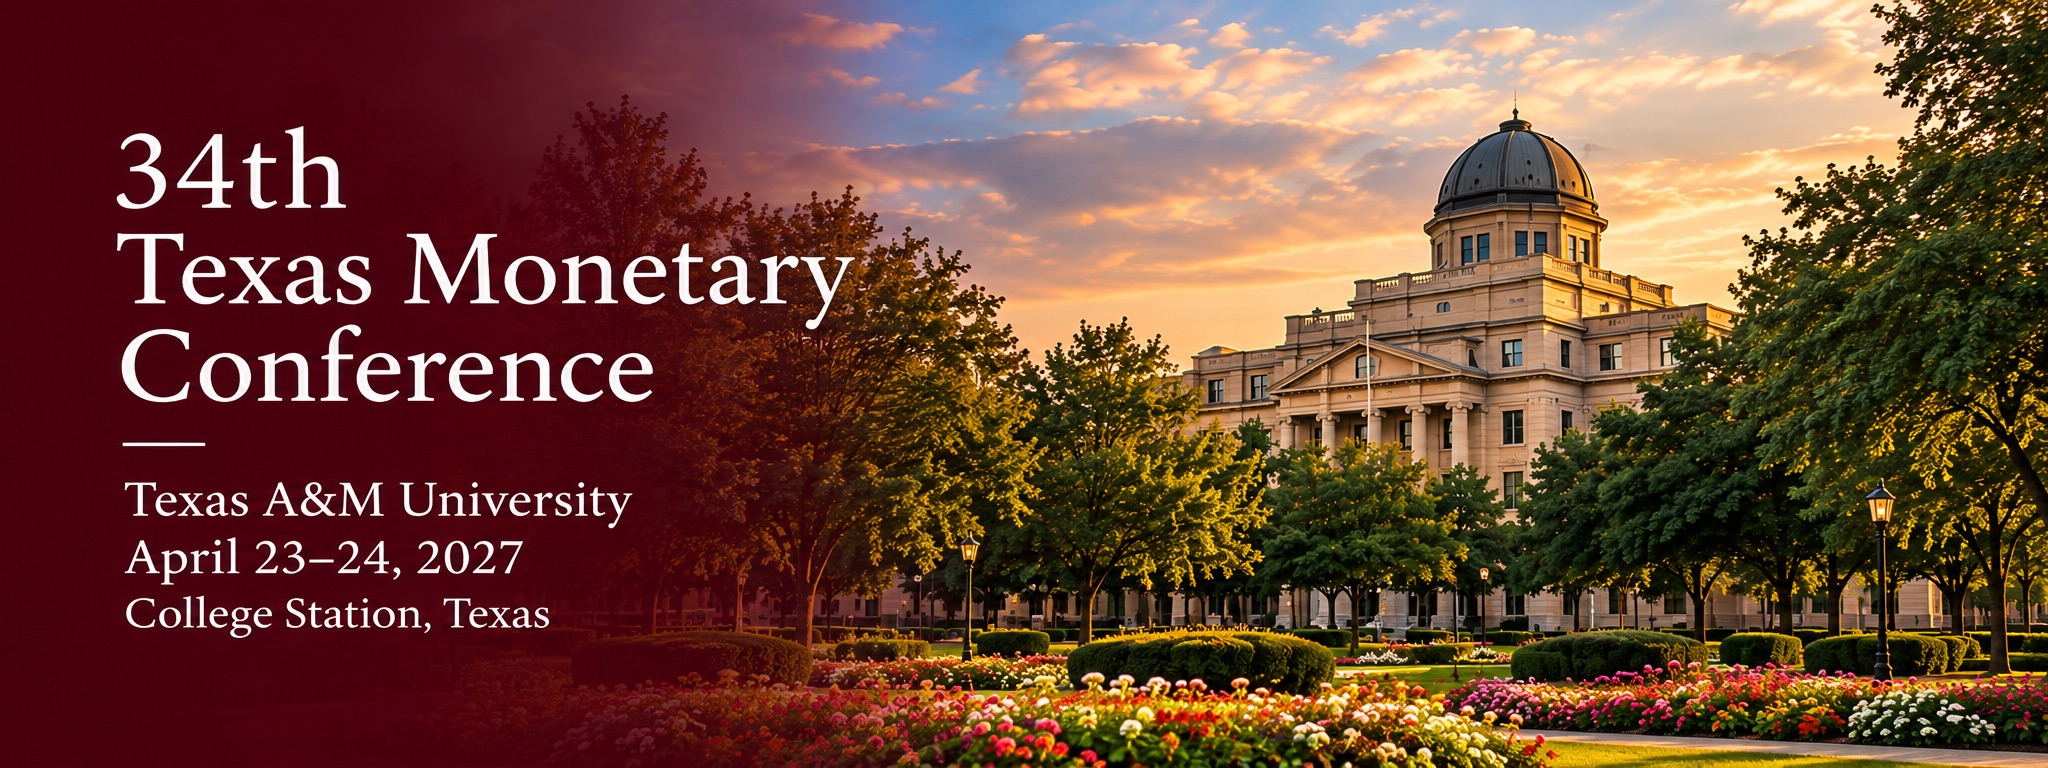
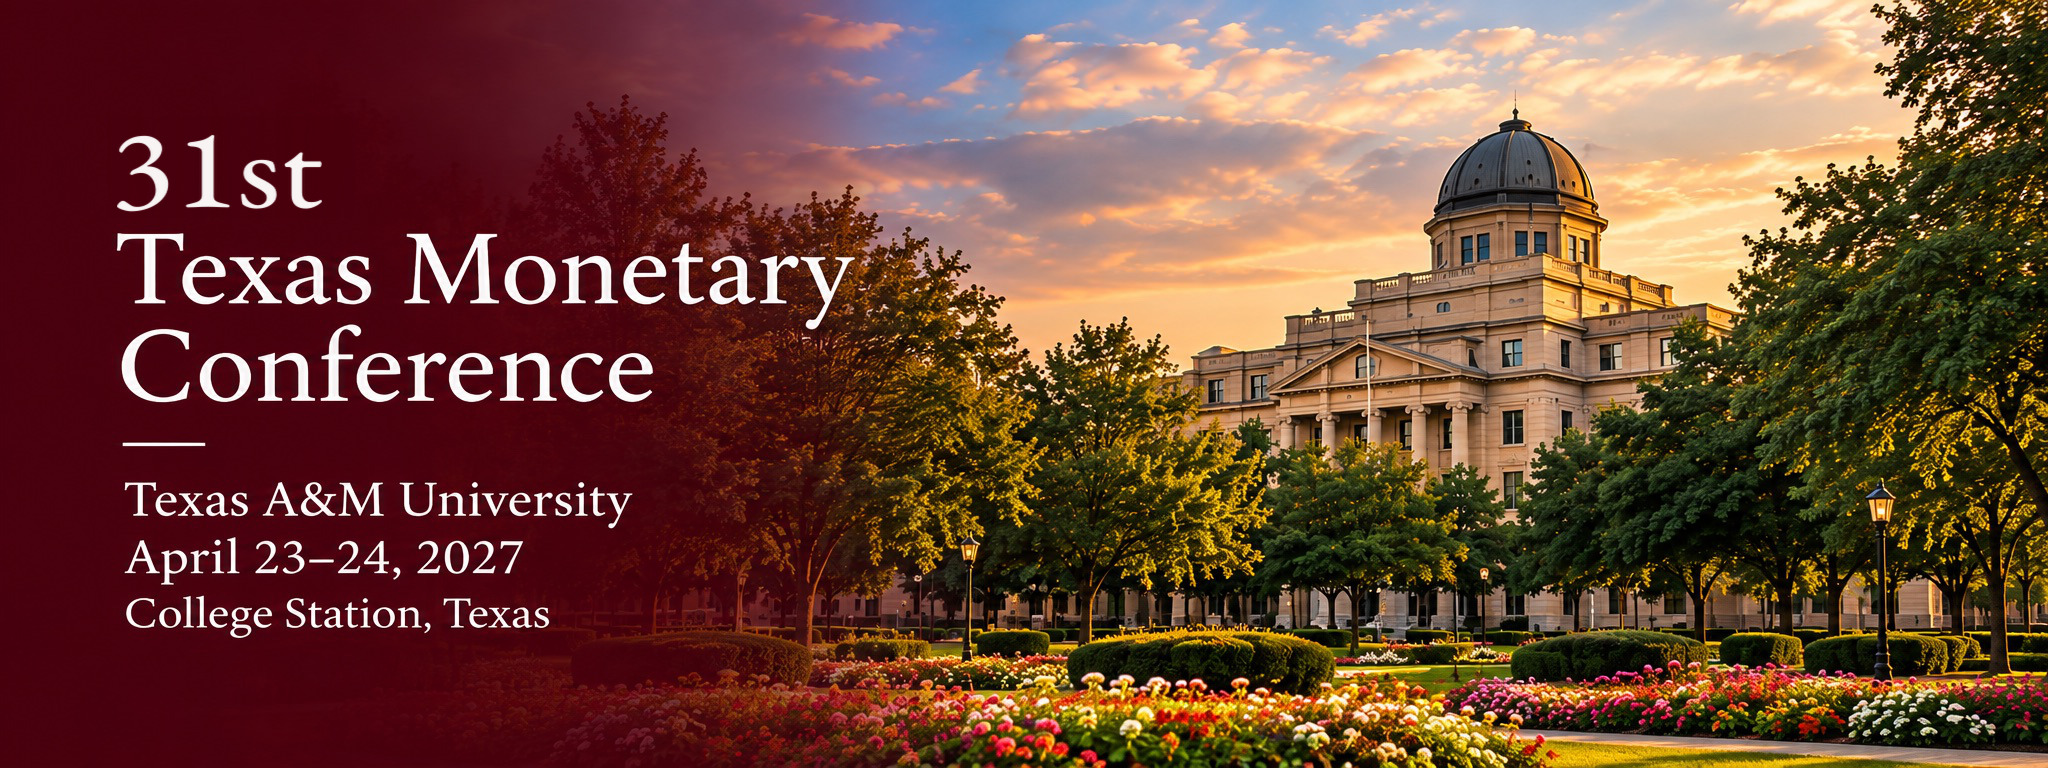
Number past conferences and change 2027 to the 31st TMC
Add a No. column to the Past Conferences table (2019 = 25th; no
conference in 2016 or 2020-2021), add the December 2009 UT Austin
conference, and update the banner and index.html from 34th to 31st.

Changed region(s): [[0.0625, 0.1562, 0.1875, 0.2812]]

diff --git a/programs.html b/programs.html
@@ -34,36 +34,37 @@
       <div class="table-wrap">
         <table>
           <thead>
-            <tr><th>Year</th><th>Dates</th><th>Host</th><th>Program</th></tr>
+            <tr><th>Year</th><th>No.</th><th>Dates</th><th>Host</th><th>Program</th></tr>
           </thead>
           <tbody>
             <!-- Add new years at the top. Put the PDF in programs/ as YYYY_Host.pdf -->
-            <tr><td class="year">2026</td><td>May 1–2</td><td>Rice University</td><td><a class="pdf-link" href="programs/2026_Rice.pdf">PDF</a></td></tr>
-            <tr><td class="year">2025</td><td>April 24–25</td><td>University of Texas at Austin</td><td><a class="pdf-link" href="programs/2025_UTAustin.pdf">PDF</a></td></tr>
-            <tr><td class="year">2024</td><td>April 5–6</td><td>Southern Methodist University</td><td><a class="pdf-link" href="programs/2024_SMU.pdf">PDF</a></td></tr>
-            <tr><td class="year">2023</td><td>April 14–15</td><td>University of Houston</td><td><a class="pdf-link" href="programs/2023_Houston.pdf">PDF</a></td></tr>
-            <tr><td class="year">2022</td><td>March 25</td><td>Federal Reserve Bank of Dallas</td><td><a class="pdf-link" href="programs/2022_DallasFed.pdf">PDF</a></td></tr>
-            <tr><td class="year">2019</td><td>May 3–4</td><td>Texas A&amp;M University</td><td><a class="pdf-link" href="programs/2019_TexasAM.pdf">PDF</a></td></tr>
-            <tr><td class="year">2018</td><td>May 4–5</td><td>University of Texas at Austin</td><td><a class="pdf-link" href="programs/2018_UTAustin.pdf">PDF</a></td></tr>
-            <tr><td class="year">2017</td><td>April 29–30</td><td>Southern Methodist University</td><td><a class="pdf-link" href="programs/2017_SMU.pdf">PDF</a></td></tr>
-            <tr><td class="year">2015</td><td>October 16–17</td><td>University of Houston</td><td><a class="pdf-link" href="programs/2015_Houston.pdf">PDF</a></td></tr>
-            <tr><td class="year">2014</td><td>October 4–5</td><td>Federal Reserve Bank of Dallas</td><td><a class="pdf-link" href="programs/2014_DallasFed.pdf">PDF</a> · <a class="pdf-link" href="https://www.dallasfed.org/research/events/2014/14tmc" target="_blank" rel="noopener">Web page ↗</a></td></tr>
-            <tr><td class="year">2013</td><td>April 6–7</td><td>Texas A&amp;M University</td><td><a class="pdf-link" href="programs/2013_TexasAM.pdf">PDF</a> · <a class="pdf-link" href="https://web.archive.org/web/20141211102622/http://econweb.tamu.edu/about-us/texas_monetary_conference_2013.htm" target="_blank" rel="noopener">Web page ↗</a></td></tr>
-            <tr><td class="year">2008</td><td>May 3–4</td><td>Federal Reserve Bank of Dallas</td><td><a class="pdf-link" href="programs/2008_DallasFed.html">Program</a></td></tr>
-            <tr><td class="year">2006</td><td>April 29–30</td><td>Texas A&amp;M University</td><td><a class="pdf-link" href="programs/2006_TexasAM.pdf">PDF</a></td></tr>
-            <tr><td class="year">2005</td><td>April 1–2</td><td>University of Texas at Austin</td><td><a class="pdf-link" href="programs/2005_UTAustin.pdf">PDF</a> · <a class="pdf-link" href="https://web.archive.org/web/20061130112734/http://www.utexas.edu/cola/depts/economics/conferences/Spring_2005/tx_monetary/index/" target="_blank" rel="noopener">Web page ↗</a></td></tr>
-            <tr><td class="year">2004</td><td>April 24–25</td><td>Southern Methodist University</td><td><a class="pdf-link" href="programs/2004_SMU.pdf">PDF</a> · <a class="pdf-link" href="https://web.archive.org/web/20041027183503/http://www.smu.edu/economics/events/conference/monetary/schedule.htm" target="_blank" rel="noopener">Web page ↗</a></td></tr>
-            <tr><td class="year">2003</td><td>March 28–29</td><td>University of Houston</td><td><a class="pdf-link" href="https://www.uh.edu/~dpapell/tmcsched.htm" target="_blank" rel="noopener">Web page ↗</a></td></tr>
-            <tr><td class="year">2002</td><td>March 1–2</td><td>University of Texas at Austin</td><td class="na">Not available</td></tr>
-            <tr><td class="year">2001</td><td>March 31–April 1</td><td>Rice University</td><td><a class="pdf-link" href="programs/2001_Rice.pdf">PDF</a> · <a class="pdf-link" href="https://web.archive.org/web/20030118071507/http://www.ruf.rice.edu/~econ/tmc/index.html" target="_blank" rel="noopener">Web page ↗</a></td></tr>
-            <tr><td class="year">2000</td><td>April 21–22</td><td>Texas A&amp;M University</td><td><a class="pdf-link" href="programs/2000_TexasAM.pdf">PDF</a> · <a class="pdf-link" href="https://web.archive.org/web/20030307200810/http://econweb.tamu.edu/auernheimer/TMC2000/this%20year.htm" target="_blank" rel="noopener">Web page ↗</a></td></tr>
-            <tr><td class="year">1999</td><td>—</td><td>Federal Reserve Bank of Dallas</td><td class="na">Not available</td></tr>
-            <tr><td class="year">1998</td><td>—</td><td>University of Texas at Austin</td><td class="na">Not available</td></tr>
-            <tr><td class="year">1997</td><td>Spring</td><td>Southern Methodist University</td><td class="na">Not available</td></tr>
-            <tr><td class="year">1996</td><td>Spring</td><td>Rice University</td><td class="na">Not available</td></tr>
-            <tr><td class="year">1995</td><td>Spring</td><td>Texas A&amp;M University</td><td class="na">Not available</td></tr>
-            <tr><td class="year">1994</td><td>—</td><td>Federal Reserve Bank of Dallas</td><td class="na">Not available</td></tr>
-            <tr><td class="year">1993</td><td>—</td><td>University of Texas at Austin</td><td class="na">Not available</td></tr>
+            <tr><td class="year">2026</td><td class="num">30th</td><td>May 1–2</td><td>Rice University</td><td><a class="pdf-link" href="programs/2026_Rice.pdf">PDF</a></td></tr>
+            <tr><td class="year">2025</td><td class="num">29th</td><td>April 24–25</td><td>University of Texas at Austin</td><td><a class="pdf-link" href="programs/2025_UTAustin.pdf">PDF</a></td></tr>
+            <tr><td class="year">2024</td><td class="num">28th</td><td>April 5–6</td><td>Southern Methodist University</td><td><a class="pdf-link" href="programs/2024_SMU.pdf">PDF</a></td></tr>
+            <tr><td class="year">2023</td><td class="num">27th</td><td>April 14–15</td><td>University of Houston</td><td><a class="pdf-link" href="programs/2023_Houston.pdf">PDF</a></td></tr>
+            <tr><td class="year">2022</td><td class="num">26th</td><td>March 25</td><td>Federal Reserve Bank of Dallas</td><td><a class="pdf-link" href="programs/2022_DallasFed.pdf">PDF</a></td></tr>
+            <tr><td class="year">2019</td><td class="num">25th</td><td>May 3–4</td><td>Texas A&amp;M University</td><td><a class="pdf-link" href="programs/2019_TexasAM.pdf">PDF</a></td></tr>
+            <tr><td class="year">2018</td><td class="num">24th</td><td>May 4–5</td><td>University of Texas at Austin</td><td><a class="pdf-link" href="programs/2018_UTAustin.pdf">PDF</a></td></tr>
+            <tr><td class="year">2017</td><td class="num">23rd</td><td>April 29–30</td><td>Southern Methodist University</td><td><a class="pdf-link" href="programs/2017_SMU.pdf">PDF</a></td></tr>
+            <tr><td class="year">2015</td><td class="num">22nd</td><td>October 16–17</td><td>University of Houston</td><td><a class="pdf-link" href="programs/2015_Houston.pdf">PDF</a></td></tr>
+            <tr><td class="year">2014</td><td class="num">21st</td><td>October 4–5</td><td>Federal Reserve Bank of Dallas</td><td><a class="pdf-link" href="programs/2014_DallasFed.pdf">PDF</a> · <a class="pdf-link" href="https://www.dallasfed.org/research/events/2014/14tmc" target="_blank" rel="noopener">Web page ↗</a></td></tr>
+            <tr><td class="year">2013</td><td class="num">20th</td><td>April 6–7</td><td>Texas A&amp;M University</td><td><a class="pdf-link" href="programs/2013_TexasAM.pdf">PDF</a> · <a class="pdf-link" href="https://web.archive.org/web/20141211102622/http://econweb.tamu.edu/about-us/texas_monetary_conference_2013.htm" target="_blank" rel="noopener">Web page ↗</a></td></tr>
+            <tr><td class="year">2009</td><td class="num">—</td><td>December 11–12</td><td>University of Texas at Austin</td><td><a class="pdf-link" href="https://web.archive.org/web/20190906013437/https://liberalarts.utexas.edu/economics/events/texas-monetary-conference-2009" target="_blank" rel="noopener">Web page ↗</a></td></tr>
+            <tr><td class="year">2008</td><td class="num">16th</td><td>May 3–4</td><td>Federal Reserve Bank of Dallas</td><td><a class="pdf-link" href="programs/2008_DallasFed.html">Program</a></td></tr>
+            <tr><td class="year">2006</td><td class="num">14th</td><td>April 29–30</td><td>Texas A&amp;M University</td><td><a class="pdf-link" href="programs/2006_TexasAM.pdf">PDF</a></td></tr>
+            <tr><td class="year">2005</td><td class="num">13th</td><td>April 1–2</td><td>University of Texas at Austin</td><td><a class="pdf-link" href="programs/2005_UTAustin.pdf">PDF</a> · <a class="pdf-link" href="https://web.archive.org/web/20061130112734/http://www.utexas.edu/cola/depts/economics/conferences/Spring_2005/tx_monetary/index/" target="_blank" rel="noopener">Web page ↗</a></td></tr>
+            <tr><td class="year">2004</td><td class="num">12th</td><td>April 24–25</td><td>Southern Methodist University</td><td><a class="pdf-link" href="programs/2004_SMU.pdf">PDF</a> · <a class="pdf-link" href="https://web.archive.org/web/20041027183503/http://www.smu.edu/economics/events/conference/monetary/schedule.htm" target="_blank" rel="noopener">Web page ↗</a></td></tr>
+            <tr><td class="year">2003</td><td class="num">11th</td><td>March 28–29</td><td>University of Houston</td><td><a class="pdf-link" href="https://www.uh.edu/~dpapell/tmcsched.htm" target="_blank" rel="noopener">Web page ↗</a></td></tr>
+            <tr><td class="year">2002</td><td class="num">10th</td><td>March 1–2</td><td>University of Texas at Austin</td><td class="na">Not available</td></tr>
+            <tr><td class="year">2001</td><td class="num">9th</td><td>March 31–April 1</td><td>Rice University</td><td><a class="pdf-link" href="programs/2001_Rice.pdf">PDF</a> · <a class="pdf-link" href="https://web.archive.org/web/20030118071507/http://www.ruf.rice.edu/~econ/tmc/index.html" target="_blank" rel="noopener">Web page ↗</a></td></tr>
+            <tr><td class="year">2000</td><td class="num">8th</td><td>April 21–22</td><td>Texas A&amp;M University</td><td><a class="pdf-link" href="programs/2000_TexasAM.pdf">PDF</a> · <a class="pdf-link" href="https://web.archive.org/web/20030307200810/http://econweb.tamu.edu/auernheimer/TMC2000/this%20year.htm" target="_blank" rel="noopener">Web page ↗</a></td></tr>
+            <tr><td class="year">1999</td><td class="num">7th</td><td>—</td><td>Federal Reserve Bank of Dallas</td><td class="na">Not available</td></tr>
+            <tr><td class="year">1998</td><td class="num">6th</td><td>—</td><td>University of Texas at Austin</td><td class="na">Not available</td></tr>
+            <tr><td class="year">1997</td><td class="num">5th</td><td>Spring</td><td>Southern Methodist University</td><td class="na">Not available</td></tr>
+            <tr><td class="year">1996</td><td class="num">4th</td><td>Spring</td><td>Rice University</td><td class="na">Not available</td></tr>
+            <tr><td class="year">1995</td><td class="num">3rd</td><td>Spring</td><td>Texas A&amp;M University</td><td class="na">Not available</td></tr>
+            <tr><td class="year">1994</td><td class="num">2nd</td><td>—</td><td>Federal Reserve Bank of Dallas</td><td class="na">Not available</td></tr>
+            <tr><td class="year">1993</td><td class="num">1st</td><td>—</td><td>University of Texas at Austin</td><td class="na">Not available</td></tr>
           </tbody>
         </table>
       </div>

diff --git a/index.html b/index.html
@@ -4,7 +4,7 @@
   <meta charset="utf-8">
   <meta name="viewport" content="width=device-width, initial-scale=1">
   <title>Texas Monetary Conference</title>
-  <meta name="description" content="The 34th Texas Monetary Conference, Texas A&amp;M University, College Station, April 23–24, 2027.">
+  <meta name="description" content="The 31st Texas Monetary Conference, Texas A&amp;M University, College Station, April 23–24, 2027.">
   <link rel="preconnect" href="https://fonts.googleapis.com">
   <link rel="preconnect" href="https://fonts.gstatic.com" crossorigin>
   <link href="https://fonts.googleapis.com/css2?family=Lato:wght@400;700&family=Playfair+Display:wght@600&display=swap" rel="stylesheet">
@@ -23,7 +23,7 @@
   </header>
 
   <div class="cover">
-    <img src="images/banner-2027.jpg" alt="34th Texas Monetary Conference. Texas A&amp;M University, April 23–24, 2027, College Station, Texas." width="2048" height="768">
+    <img src="images/banner-2027.jpg" alt="31st Texas Monetary Conference. Texas A&amp;M University, April 23–24, 2027, College Station, Texas." width="2048" height="768">
   </div>
 
   <section class="section">

diff --git a/css/style.css b/css/style.css
@@ -236,6 +236,7 @@ tbody tr:last-child td { border-bottom: 0; }
 tbody tr:nth-child(even) { background: var(--bg-alt); }
 tbody tr:hover { background: var(--accent-soft); }
 td.year { font-weight: 700; font-variant-numeric: tabular-nums; white-space: nowrap; }
+td.num { color: var(--muted); font-variant-numeric: tabular-nums; white-space: nowrap; }
 td.na { color: var(--muted); font-style: italic; }
 .pdf-link { font-weight: 700; white-space: nowrap; }
 .note { color: var(--muted); font-size: 0.92rem; margin-top: 16px; }

diff --git a/README.md b/README.md
@@ -27,6 +27,6 @@ Every change is saved in the history, so any edit can be undone.
 
 **Add a year to Previous Programs.** Put the PDF in `programs/` and add a `<tr>` at the top of the table in `programs.html`.
 
-Missing years with no program on file: 1993–1999, 2002, 2007, 2009–2012, 2016, 2020–2021. The 1993–1999 and 2002 rows list hosts only. Programs available online are linked with "Web page ↗": 2003 (UH), 2014 (Dallas Fed), and Wayback Machine snapshots for 2000, 2001, 2004, 2005, and 2013, which also have a PDF copy.
+Missing years with no program on file: 1993–1999, 2002, 2007, 2009 (web page only), 2010–2012, 2016, 2020–2021. The 1993–1999 and 2002 rows list hosts only. Programs available online are linked with "Web page ↗": 2003 (UH), 2014 (Dallas Fed), and Wayback Machine snapshots for 2000, 2001, 2004, 2005, and 2013, which also have a PDF copy. 2009 (UT Austin, December 11–12) links to a Wayback snapshot of the event page only. The "No." column numbers conferences from 1993 = 1st; 2019 = 25th, with no conference in 2016 (the October 2015 UH meeting counts as the 22nd) or in 2020–2021 (COVID), so 2027 is the 31st. The 2009 number is left blank because it is unclear how many conferences were held in 2009–2012.
 
 To preview locally, open `index.html` in a browser.
